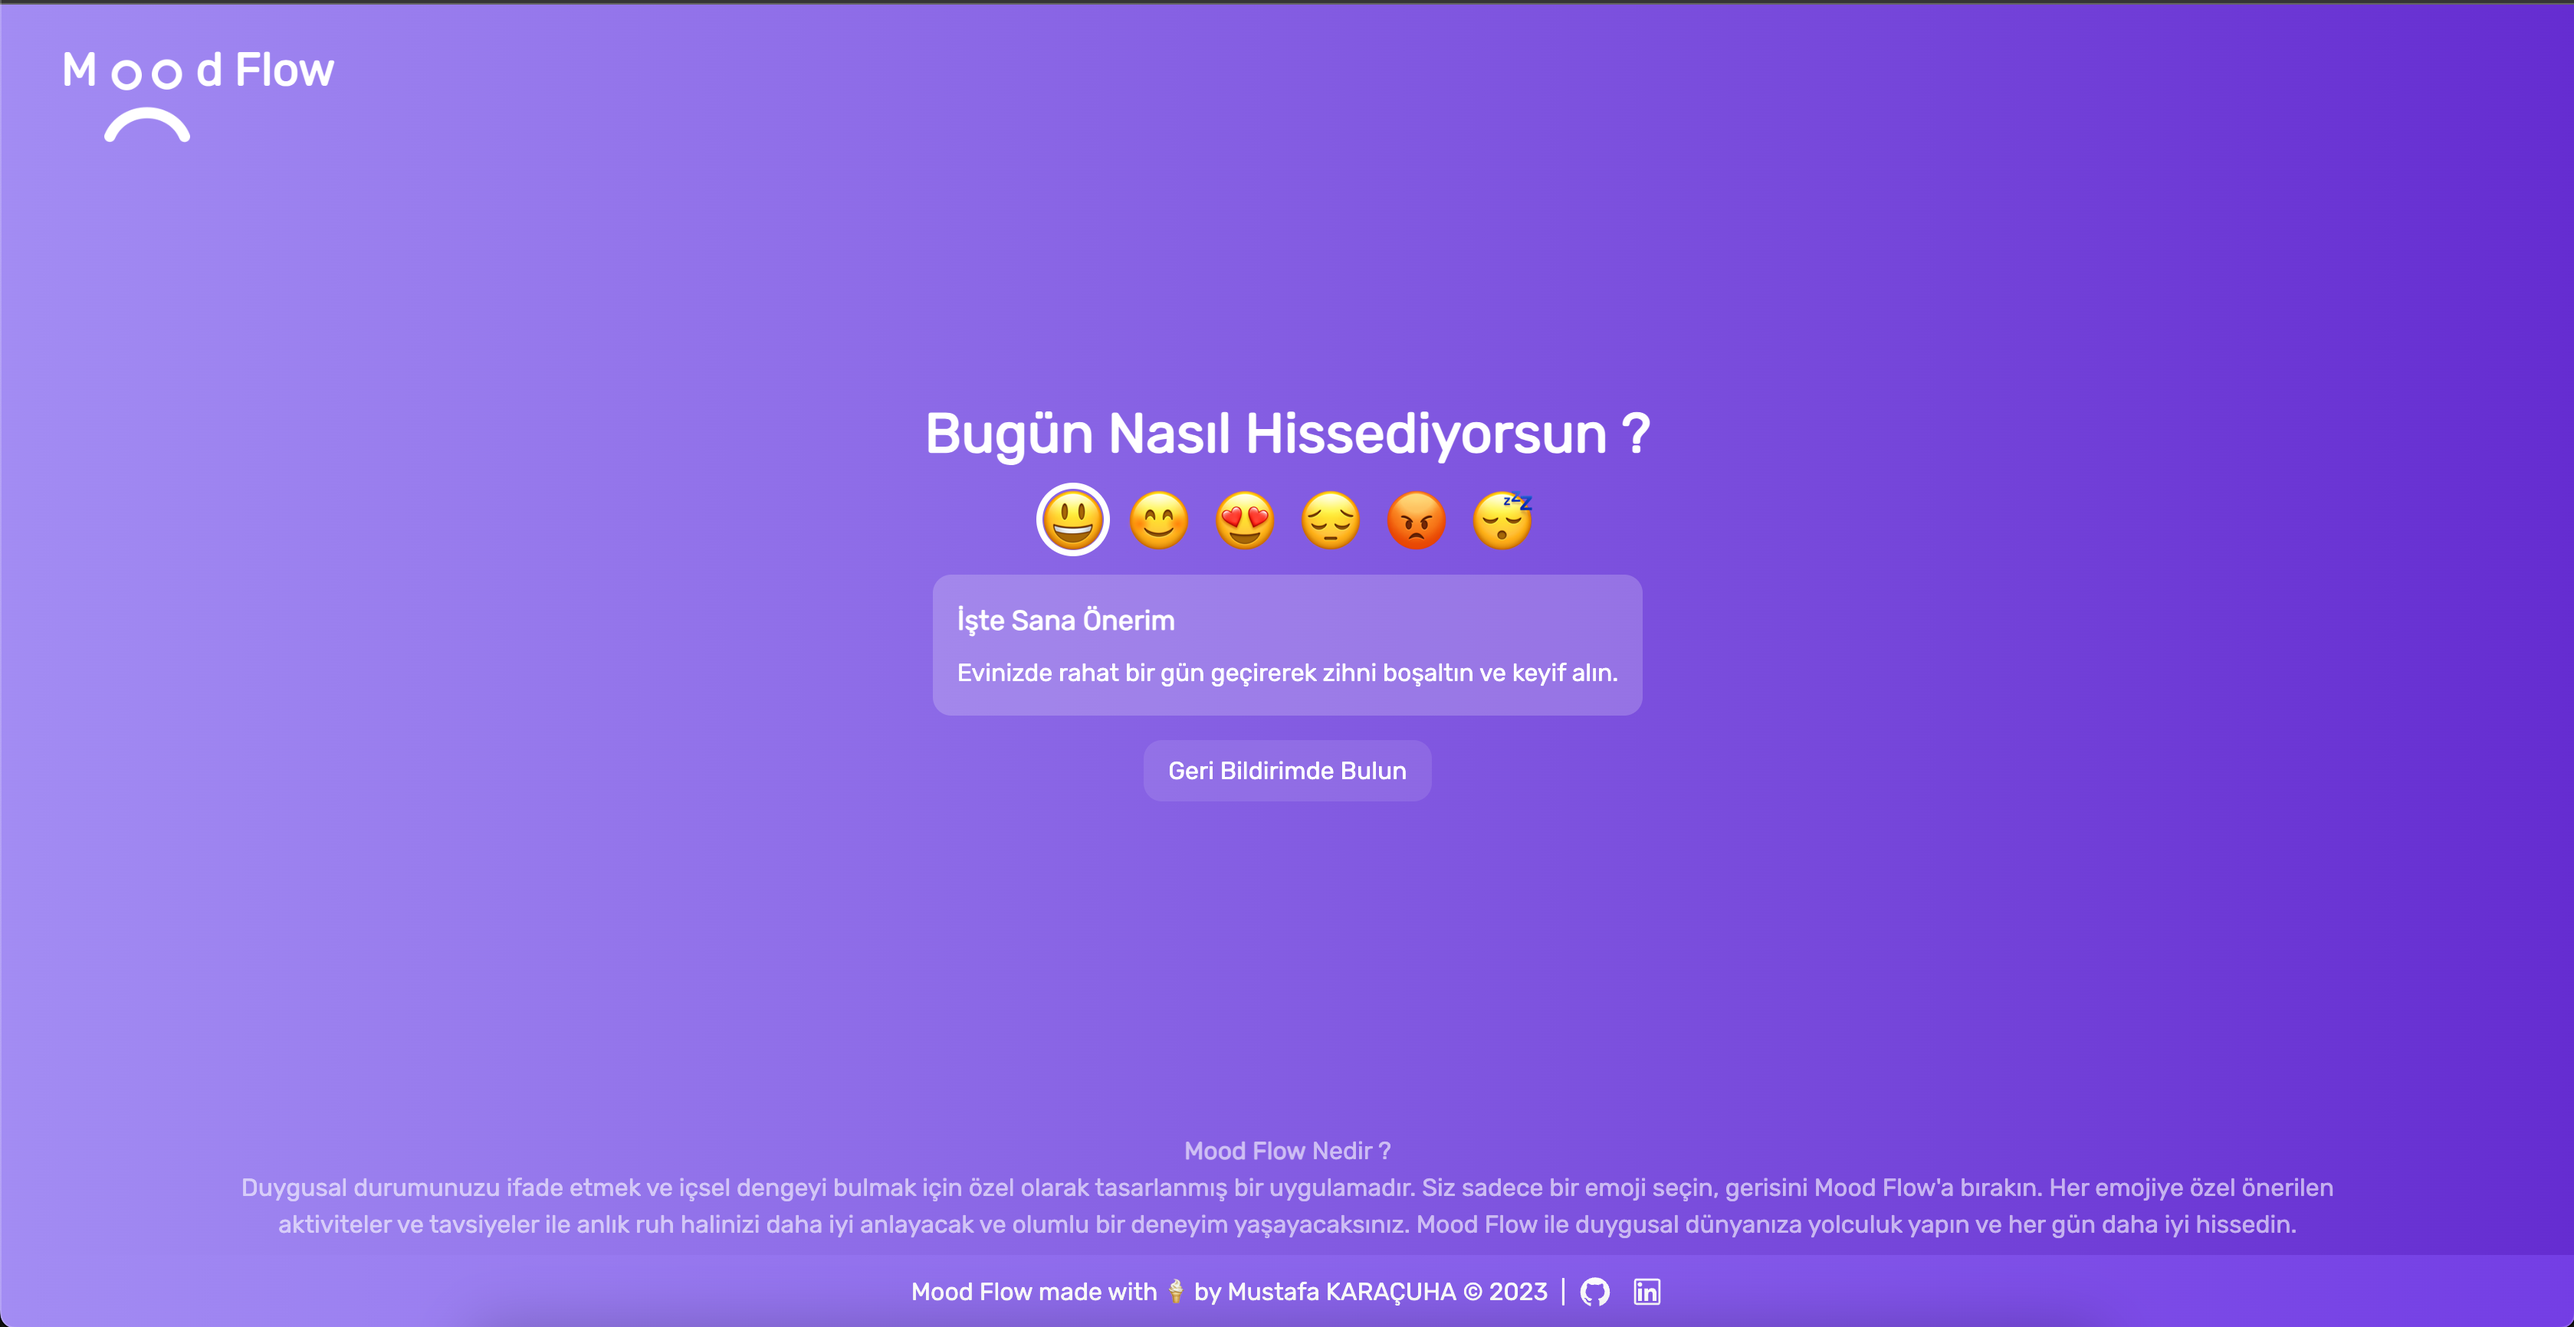
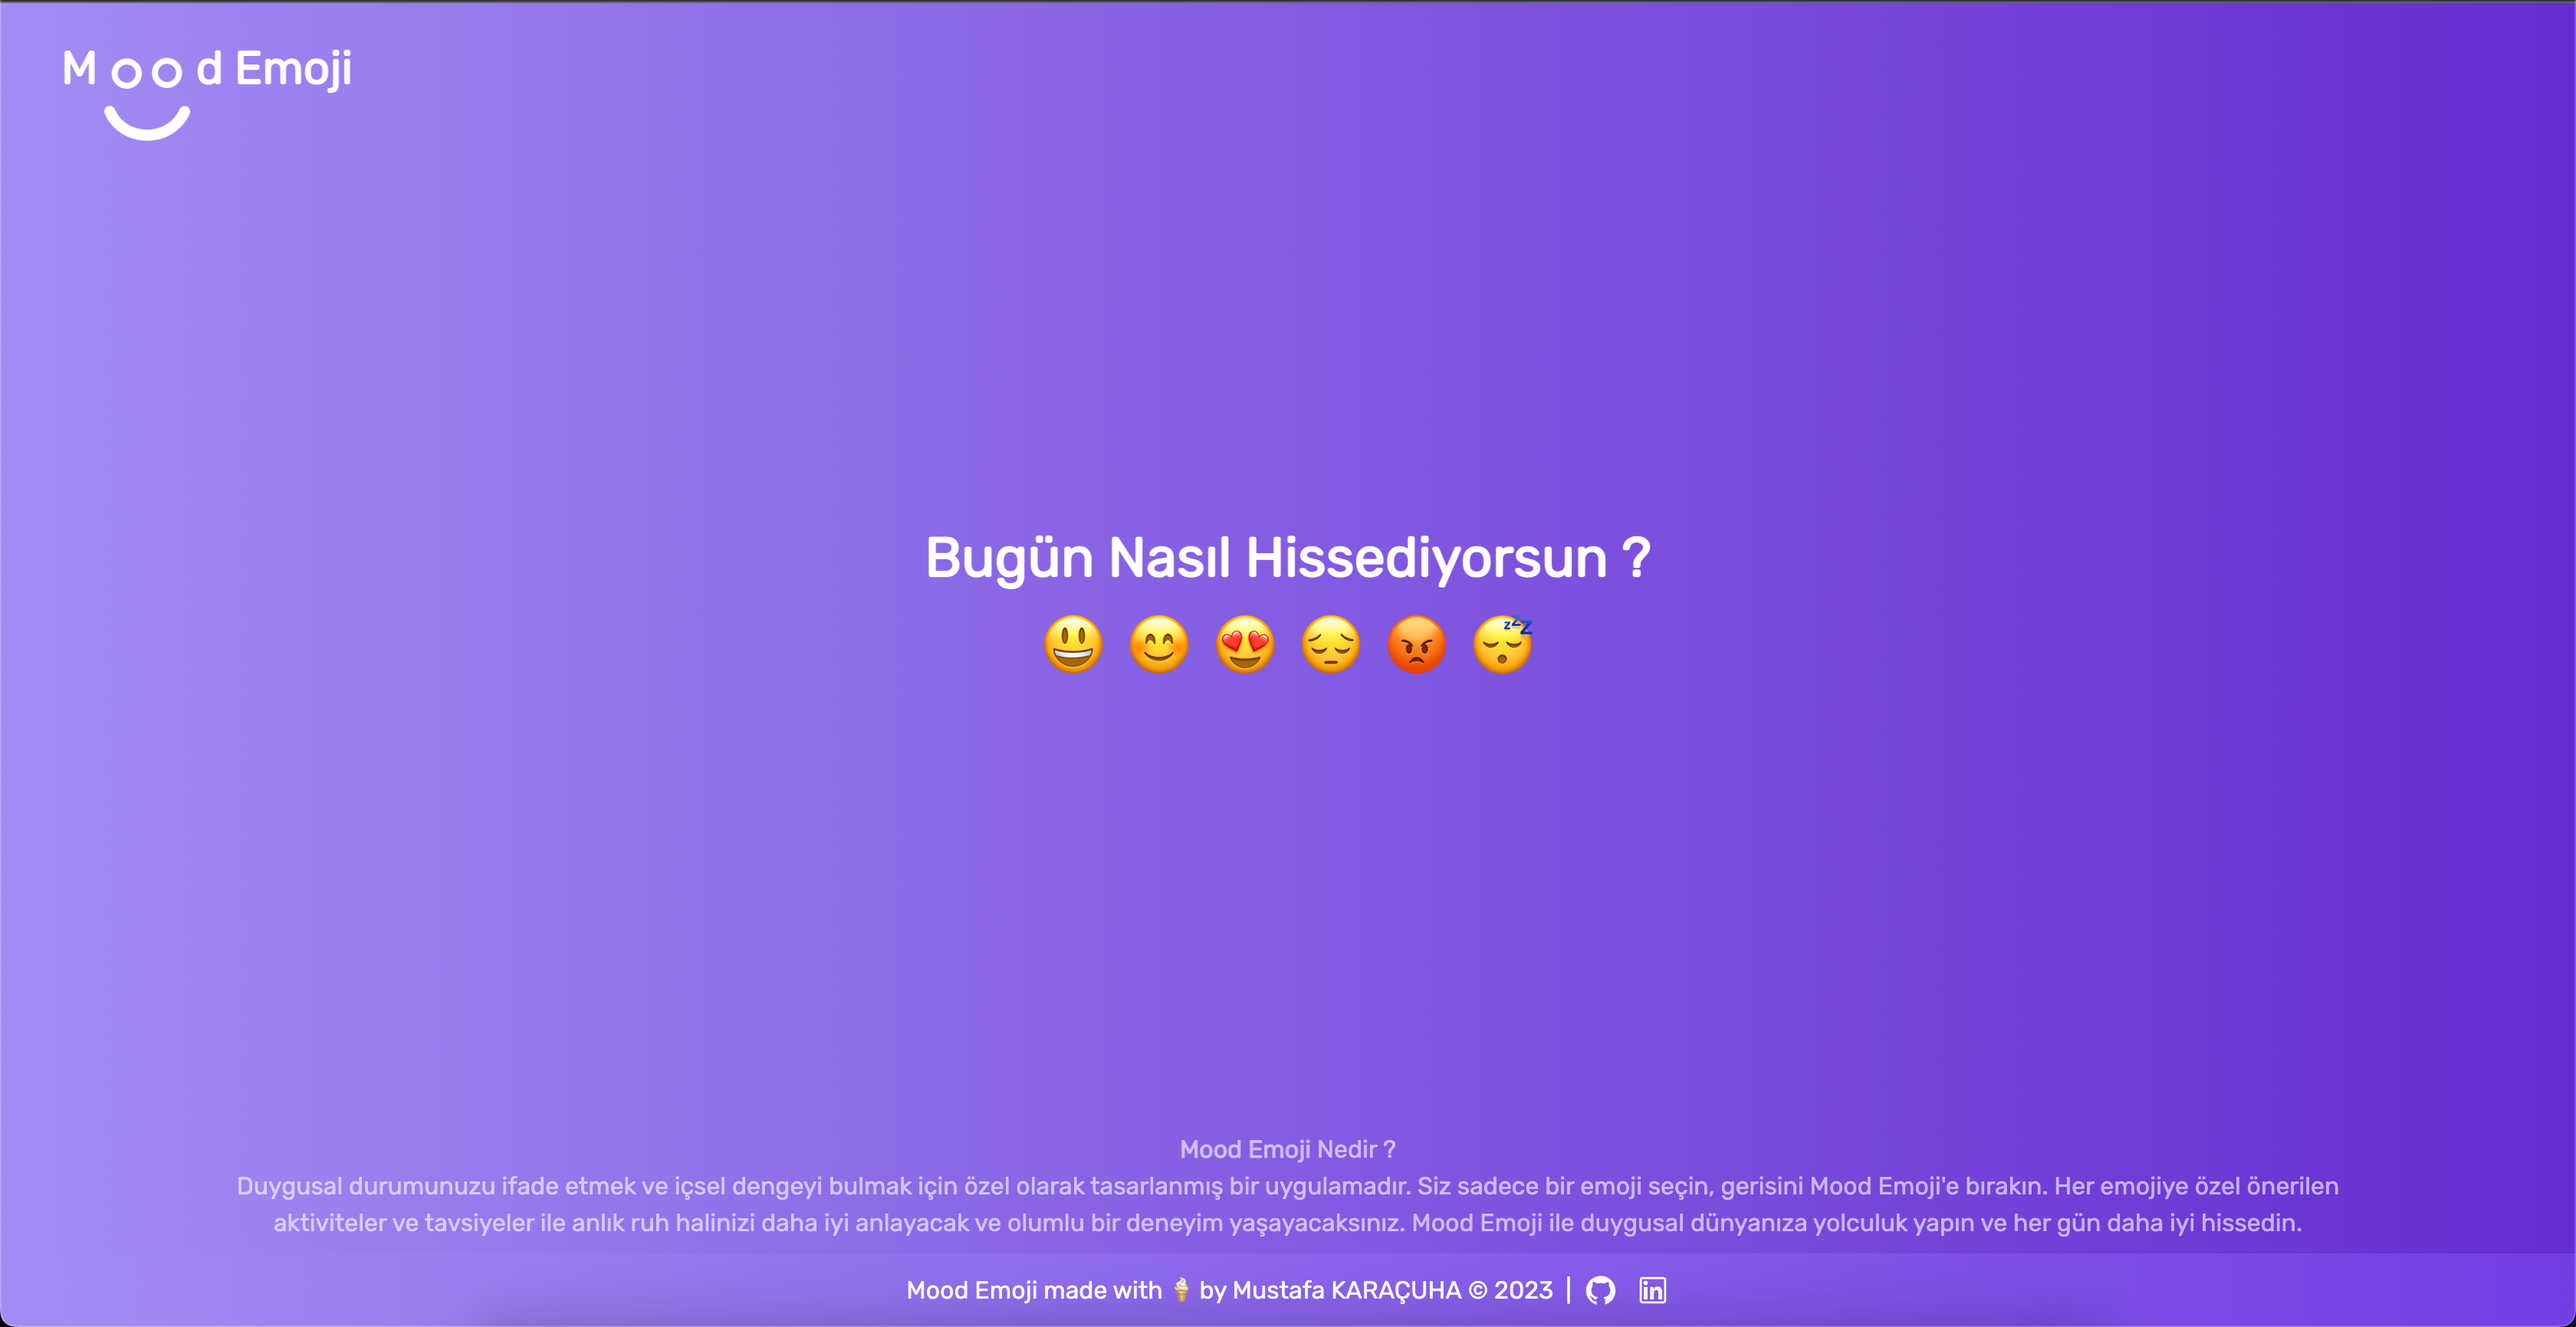
update

diff --git a/README.md b/README.md
@@ -1,8 +1,8 @@
-# MoodFlow
+# MoodEmoji
 
-MoodFlow, duygusal durumunuzu ifade etmek ve içsel dengeyi bulmak için tasarlanmış bir emoji tabanlı uygulamadır. MoodFlow ile anlık ruh halinizi yansıtan bir emoji seçebilirsiniz, ardından size önerilen aktiviteler ve tavsiyelerle daha olumlu bir deneyim yaşayabilirsiniz.
+moodEmoji, duygusal durumunuzu ifade etmek ve içsel dengeyi bulmak için tasarlanmış bir emoji tabanlı uygulamadır. moodEmoji ile anlık ruh halinizi yansıtan bir emoji seçebilirsiniz, ardından size önerilen aktiviteler ve tavsiyelerle daha olumlu bir deneyim yaşayabilirsiniz.
 
-![MoodFlow Screenshot](https://github.com/mustafakaracuha/moodflow/blob/main/src/assets/appLogo.png)
+![MoodEmoji Screenshot](https://github.com/mustafakaracuha/moodflow/blob/main/src/assets/appLogo.png)
 
 
 ## Özellikler
@@ -20,7 +20,7 @@ MoodFlow, duygusal durumunuzu ifade etmek ve içsel dengeyi bulmak için tasarla
 
 ## Uygulama Görüntüsü
 
-![MoodFlow Screenshot](https://github.com/mustafakaracuha/moodflow/blob/main/src/assets/appScreenshot.png)
+![MoodEmoji Screenshot](https://github.com/mustafakaracuha/moodflow/blob/main/src/assets/appScreenshot.png)
 
 ## İncelemek için Hemen Tıkla
 
